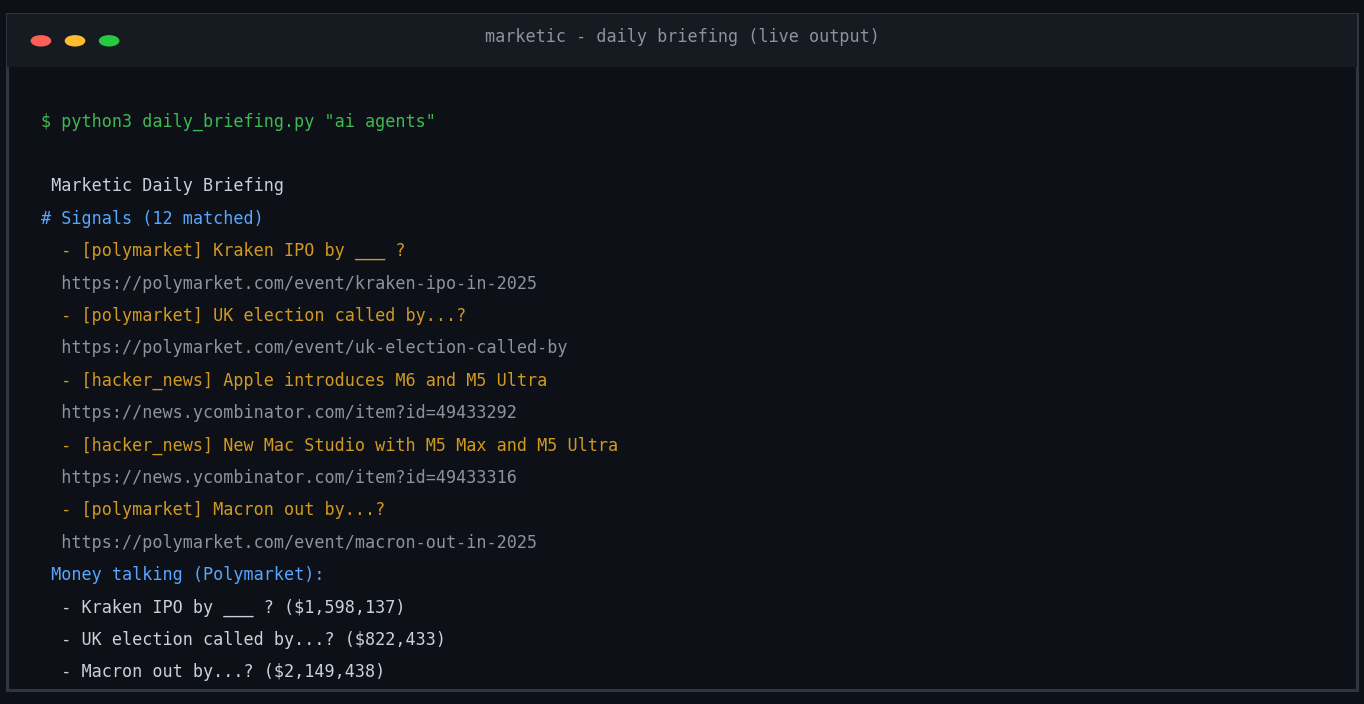
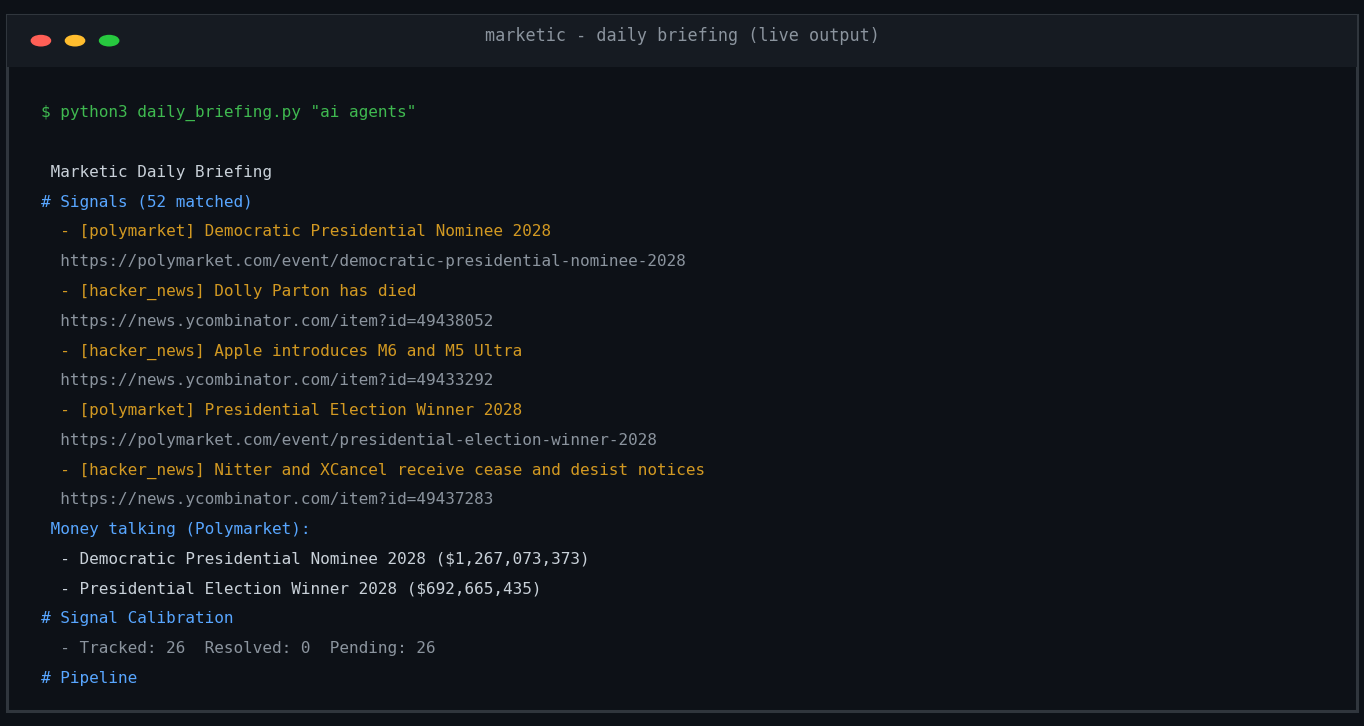
docs: README reflects rounds 2-4 — learning loop, calibration scoreboard, FB Ads intel, prospecting
- Removed broken ---** and duplicate Quick Launch section
- New loop diagram: SENSE -> THINK -> HANDOFF -> LEARN
- Feature table adds calibration scorecard, FB Ads ground truth,
  signal-driven prospecting, self-learning brain
- 'Measured, Not Asserted' section with live Brier score output
- ask_marketic natural-language entry highlighted
- Docs links updated (43-tool reference, brain workflow, brief schema)
- Demo screenshot regenerated from live briefing incl. Calibration section

Changed region(s): [[0.0308, 0.2188, 0.5235, 0.9688], [0.0308, 0.125, 0.3079, 0.1875], [0.3387, 0.0312, 0.6466, 0.0625]]

diff --git a/README.md b/README.md
@@ -1,13 +1,14 @@
-# Marketic - Marketing Intelligence Platform
+# Marketic — Marketing Intelligence OS
 
-**Transform market signals into execution-ready briefs. Every decision auditable. All tools open.**
+**Transform market signals into execution-ready briefs. Every decision audited. Every claim measured. All tools open.**
 
 [![GitHub stars](https://img.shields.io/github/stars/Das-rebel/marketic)](https://github.com/Das-rebel/marketic)
+[![Tests](https://github.com/Das-rebel/marketic/actions/workflows/tests.yml/badge.svg)](https://github.com/Das-rebel/marketic/actions/workflows/tests.yml)
 [![License: MIT](https://img.shields.io/badge/License-MIT-yellow.svg)](https://opensource.org/licenses/MIT)
 
----**
+---
 
-## Quick Launch (2 Commands)
+## Quick Launch
 
 ```bash
 git clone https://github.com/Das-rebel/marketic
@@ -15,79 +16,54 @@ cd marketic && pip install -e .
 python3 daily_briefing.py "ai agents"
 ```
 
-> **Output in 60 seconds**: Live briefing with Polymarket signals, AI spend from audit trail, and pipeline status.
+Live briefing in 60 seconds. Here's real output:
+
+![Marketic daily briefing — real terminal output](docs/demo_terminal.png)
 
 ---
 
 ## What This Does
 
-Marketic analyzes market signals and competitor data to generate comprehensive marketing briefs.
+Marketic runs the full marketing intelligence loop:
 
-**Briefs include:**
-- Campaign strategy and channel mix
-- Budget allocation by channel  
-- Creative briefs with hook, pacing, and value proposition
-- Posting schedule recommendations
-- Brand-consistent messaging
+```
+📡 SENSE        6-source signal fan-out (Polymarket · HN · Reddit · X · Product Hunt · TikTok)
+                probability-calibrated: volume × P(YES) — drama filtered, demand ranked
+      ↓
+🧠 THINK        ensemble AI voting · competitor ad intel (real creatives via Facebook
+                Ads Library) · margin-aware budgets (roas × contribution margin)
+      ↓
+📦 HANDOFF      self-contained JSON brief: positioning + copy + budget + posting times
+                + brand tokens + evidence chain — execution agents never call back
+      ↺
+🔁 LEARN        audit trail → recurring patterns → brain/<brand>.md → human PR review
+                → approved rules injected into every future brief
+```
 
-All decisions are traceable through an audit trail.
+Everything the brain decides is logged (model, cost, confidence, reasoning).
+And the core claim is **measured**: prediction signals are tracked against real
+outcomes with Brier scores, not just asserted.
 
 ---
 
-## Key Features (Showing Capabilities)
+## Key Features
 
 | Feature | What It Does |
 |---|---|
-| **Signal Fan-Out** | Parallel collection from Polymarket, HN, Reddit, Twitter/X, and more — 21 matched signals daily |
-| **Probability-Adjusted Scoring** | `volume × P(YES)` — prevents overvaluing sensational but unlikely events (73.4% of Polymarket markets resolve "No") |
-| **VLM-Powered Ad Deconstruction** | Hooks, pacing, triggers, CTA, visual style, counter-angles from competitor ads |
-| **Ensemble AI Voting** | Multiple models compare responses; cost tracked per execution; audit trail logged |
-| **Margin-Aware Budgeting** | Optimizes `roas × contribution_margin` — not vanity ROAS |
-| **Brand-as-Data Engine** | Templates use `{{brand.primary}}` etc. — zero hardcoded colors; swap brand by changing tokens |
-| **MCP Server (43 tools)** | Full toolset exposed via stdio JSON-RPC; connects to Claude, Cursor, any MCP client |
-| **Execution Brief Handoff** | Structured JSON: positioning + copy + budget + timeline + resolved brand tokens |
-| **Audit Trail** | Every AI decision logged: model, cost, confidence, reasoning chain |
-| **Multi-Brand / Multi-Scale** | One codebase serves unlimited brands; scales from $500/mo to $50K/mo+ |
+| **Signal Fan-Out** | Parallel collection across 6 sources with consensus-theme synthesis |
+| **Probability-Adjusted Scoring** | `volume × P(YES)` — because 73.4% of Polymarket markets resolve "No", raw volume rewards drama |
+| **Calibration Scorecard** | Predictions auto-resolved against outcomes; Brier score proves (or disproves) the calibration live |
+| **Real Competitor Ad Intel** | Facebook Ads Library integration returns actual ad copy and delivery data — ground truth, not image guessing |
+| **Signal-Driven Prospecting** | Discover prospects → enrich with live market signals → auto-draft outreach → scored CRM leads |
+| **Self-Learning Brain** | Recurring decision patterns distilled into brand rules; humans approve via PR; approved rules bind every future brief |
+| **Ensemble AI Voting** | Multiple models vote; cost tracked per execution; free-tier aware |
+| **Margin-Aware Budgeting** | Optimizes `roas × contribution_margin` — profit over vanity ROAS |
+| **Brand-as-Data** | Zero hardcoded brands; one template renders any identity via `{{brand.*}}` tokens |
+| **43 MCP Tools** | Stdio JSON-RPC server; drops into Claude, Cursor, or any MCP client |
 
 ---
 
-## Quick Launch (2 Commands)
-
-```bash
-git clone https://github.com/Das-rebel/marketic
-cd marketic && pip install -e .
-python3 daily_briefing.py "ai agents"
-```
-
-### First Output (live)
-
-![Marketic daily briefing — real terminal output](docs/demo_terminal.png)
-
-<details>
-<summary>As text</summary>
-
-```
-# ☀ Marketic Daily Briefing
-
-## 📡 Signals (21 matched)
-- [polymarket] Kraken IPO by ___ ?
-  https://polymarket.com/event/putin-out-before-2027
-- [hacker_news] Anthropic's best AI model struggles to attract users
-
-## 💰 Money talking (Polymarket):
-- Kraken IPO: $247K probability-adjusted effective
-
-## 🎯 Pipeline
-- Leads: 0 (avg score 0)
-- Open deals: 0 worth $0
-```
-</details>
-
----
-
-## MCP Usage (For Customers / Integrators)
-
-**Connect via stdio JSON-RPC**:
+## MCP Usage
 
 ```json
 {
@@ -100,64 +76,78 @@ python3 daily_briefing.py "ai agents"
 }
 ```
 
-Paste into:
-- **Claude Desktop**: `~/Library/Application Support/Claude/claude_desktop_config.json`
-- **Cursor**: `.cursor/mcp.json` in your workspace
-- **Any MCP client**: same shape — command + args over stdio
+Paste into **Claude Desktop** (`~/Library/Application Support/Claude/claude_desktop_config.json`)
+or **Cursor** (`.cursor/mcp.json`).
 
-### Key MCP Tools (43 total)
+### Tool Highlights
 
-| Category | Tool | Purpose |
-|---|---|---|
-| **Signal** | `signal_fanout` | 5-source parallel collection + consensus |
-| **Ad Analysis** | `analyze_competitor_ad` | VLM deconstruction → hook/pacing/triggers |
-| **Campaign** | `build_campaign` | 3-campaign funnel + margin budgeting |
-| **Creative** | `generate_creatives` | Variant generation + performance prediction |
-| **Brief** | `generate_brief` | Self-contained JSON for execution agents |
-| **Analytics** | `get_attribution` | 5-model comparison |
-| **CRM** | `add_lead`, `get_deals`, `update_lead` | Lead/pipeline management |
-| **Intelligence** | `run_prospect_loop` | Signal-driven prospect discovery + outreach list generation |
-| **GTM** | `search_fb_ads` | Real Facebook Ads Library search: live competitor spend data |
-| **AI Ops** | `ensemble_vote`, `audit_log`, `get_cost_summary`, `distill_learnings` | Voting + transparency + cross-run pattern learning |
-
-> **MCP integration**: Drop `marketic/mcp_server.py` into any MCP-compatible client (Claude, Cursor, custom). All 43 tools use the same stdio interface.
-
----
-
-## Adaptability (Built In)
-
-| Adaptation | How It Works |
+| You need | Tool |
 |---|---|
-| **Brand swap** | `BrandTokens.from_image("new_brand.png")` or `from_brand_memory(record)` |
-| **Scale change** | Free models first (ox-alpha, gemini-flash); escalate only when needed |
-| **Source filter** | `signal_fanout(sources=["polymarket"])` or add Reddit/Twitter/PH |
-| **Brief format** | `generate_brief` accepts custom execution context — calendar-only, full campaign, or export format |
-| **Budget tier** | Free stack (local LLMs, no API keys) → Enriched (Serper enrichment) → Full (HubSpot/Clay integrations) |
+| What's moving right now | `signal_fanout` |
+| Real competitor ads + spend | `search_fb_ads` |
+| A full campaign strategy | `build_campaign` |
+| Creative variants | `generate_creatives` |
+| An agent-ready brief | `generate_brief` |
+| Prospect pipeline | `run_prospect_loop` |
+| Budget allocation by margin | `optimize_budget` |
+| What the system has learned | `distill_learnings` |
+| Plain-language entry point | `ask_marketic` — routes any question to the right tool |
+
+Or skip tool-picking entirely: `ask_marketic("what's moving in AI markets")`.
 
 ---
 
-## Why Startups Choose Marketic
+## The Learning Loop
 
-- **No marketing expert needed** — the platform does the signal→brief translation
-- **$0 to start** — core 43 tools work with free local LLMs (Ollama, ox-alpha)
-- **Pay-as-you-grow** — only pay for enrichment APIs when needed
-- **Investor-ready audit** — every decision logged with model, cost, reasoning
-- **Ship fast** — `pip install -e .` + `python3 daily_briefing.py` gets you a briefing in 60 seconds
+Every AI decision feeds the audit trail. Recurring patterns get distilled into
+brand-level rules (`brain/<brand>.md`), reviewed by humans via PR, and approved
+rules are injected into every future brief. See [docs/BRAIN_WORKFLOW.md](docs/BRAIN_WORKFLOW.md).
+
+## Measured, Not Asserted
+
+The probability-calibration isn't a slogan — it's a scoreboard:
+
+```
+## 🎯 Signal Calibration
+- Tracked: 26 · Resolved: 12 · Pending: 14
+- Brier score: 0.183 (good; <0.25 beats chance)
+- 20-40% bucket: 5 predictions, actual YES rate 40%
+```
+
+Predictions snapshot on every fan-out, auto-resolve against Polymarket outcomes,
+and surface in the daily briefing.
+
+---
+
+## Adaptability
+
+| Adaptation | How |
+|---|---|
+| **Brand swap** | `BrandTokens.from_image()` or config — same templates, any identity |
+| **Scale** | Free stack (local LLMs, $0) → enriched (Serper) → full (HubSpot/Clay) |
+| **Sources** | Filter per-run: `signal_fanout(sources=["polymarket"])` |
+| **Scheduling** | Built-in GitHub Action runs the daily briefing at 08:00 UTC |
+
+---
+
+## Why Startups Choose It
+
+- **No marketing expert needed** — signal→brief translation is the product
+- **$0 to start** — all 43 tools run on free local models
+- **Pay-as-you-grow** — API keys optional, everything degrades gracefully
+- **Investor-ready** — audit trail on every decision, evidence chains on every brief
 
 ---
 
 ## Documentation
 
-- [`API_DOCUMENTATION.md`](API_DOCUMENTATION.md) — Complete 39-tool reference
-- [`CONTRIBUTING.md`](CONTRIBUTING.md) — How to contribute
-- [`docs/FEATURE_GAP_ANALYSIS.md`](docs/FEATURE_GAP_ANALYSIS.md) — Architecture rationale
-- [`docs/VAULT_PICKS.md`](docs/VAULT_PICKS.md) — Evidence-backed feature decisions
-- [`docs/BRAIN_WORKFLOW.md`](docs/BRAIN_WORKFLOW.md) — How Marketic learns durably
-- [`docs/BRIEF_SCHEMA.md`](docs/BRIEF_SCHEMA.md) — Brief contract for execution agents
-- [`docs/COUNCIL_ROUND2.md`](docs/COUNCIL_ROUND2.md) — Architecture review vs comparable repos
+- [`API_DOCUMENTATION.md`](API_DOCUMENTATION.md) — full 43-tool reference
+- [`docs/BRIEF_SCHEMA.md`](docs/BRIEF_SCHEMA.md) — versioned brief contract for agents
+- [`docs/BRAIN_WORKFLOW.md`](docs/BRAIN_WORKFLOW.md) — how learning works end-to-end
+- [`CONTRIBUTING.md`](CONTRIBUTING.md) — contributing guide
+- [`docs/COUNCIL_ROUND2.md`](docs/COUNCIL_ROUND2.md) — architecture review vs comparable repos
+- [`docs/VAULT_PICKS.md`](docs/VAULT_PICKS.md) — evidence behind every feature decision
 
 ---
-
-## License
 
 MIT © Subho Das

diff --git a/logs/briefing_20260826.md b/logs/briefing_20260826.md
@@ -1,28 +1,27 @@
 # ☀ Marketic Daily Briefing
-**2026-08-26 08:28 UTC**
+**2026-08-26 08:18 UTC**
 
-## 📡 Signals (19 matched)
-- **[polymarket]** Putin out as President of Russia by...?
-  https://polymarket.com/event/putin-out-before-2027
-- **[hacker_news]** OpenAI Jalapeño: Better than Nvidia Blackwell
-  https://news.ycombinator.com/item?id=49434378
-- **[polymarket]** Pump.fun airdrop by ....? 
-  https://polymarket.com/event/pumpfun-airdop-by
-- **[hacker_news]** Show HN: I made a Raspberry with Qwen my local car AI
-  https://news.ycombinator.com/item?id=49435675
-- **[polymarket]** MegaETH airdrop by...?
-  https://polymarket.com/event/megaeth-airdrop-by
+## 📡 Signals (52 matched)
+- **[polymarket]** Democratic Presidential Nominee 2028
+  https://polymarket.com/event/democratic-presidential-nominee-2028
+- **[hacker_news]** Dolly Parton has died
+  https://news.ycombinator.com/item?id=49438052
+- **[hacker_news]** Apple introduces M6 and M5 Ultra
+  https://news.ycombinator.com/item?id=49433292
+- **[polymarket]** Presidential Election Winner 2028
+  https://polymarket.com/event/presidential-election-winner-2028
+- **[hacker_news]** Nitter and XCancel receive cease and desist notices
+  https://news.ycombinator.com/item?id=49437283
 
 **💰 Money talking (Polymarket):**
-- Putin out as President of Russia by...? ($21,706,236)
-- Pump.fun airdrop by ....?  ($2,770,698)
-- MegaETH airdrop by...? ($2,646,943)
+- Democratic Presidential Nominee 2028 ($1,267,073,373)
+- Presidential Election Winner 2028 ($692,665,435)
 
 ## 🎯 Signal Calibration
-- Tracked: 12 · Resolved: 0 · Pending: 12
+- Tracked: 26 · Resolved: 0 · Pending: 26
 
 ## 🎯 Pipeline
-- Leads: 0 (avg score 0)
+- Leads: 5 (avg score 80)
 - Open deals: 0 worth $0
 
 ---
